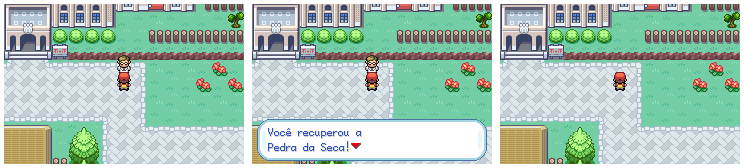
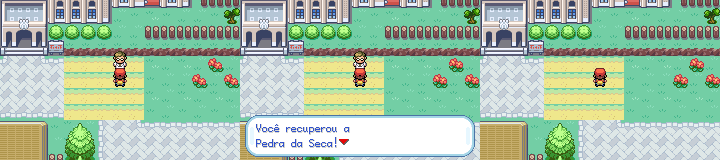
Add dry Caatinga mission clearing

diff --git a/tools/build_caatinga_clearing.py b/tools/build_caatinga_clearing.py
@@ -1,0 +1,44 @@
+"""Install a small dry Caatinga clearing around the third mission.
+
+The campaign still reuses Pewter City's wider layout.  This localized patch
+replaces only the inherited plaza beneath the mission agent and its approach
+with the walkable dry-ground metatile already used by the campaign trail.
+Object positions, the eastbound trigger and the layout attributes stay intact.
+"""
+
+from pathlib import Path
+import struct
+
+
+ROOT = Path(__file__).resolve().parents[1]
+MAP = ROOT / "pokefirered/data/layouts/PewterCity/map.bin"
+WIDTH = 48
+HEIGHT = 40
+
+DRY_GROUND_METATILE = 0x0D4
+CLEARING_CELLS = {
+    (20, 8), (21, 8), (22, 8), (23, 8), (24, 8),
+    (20, 9), (21, 9), (22, 9), (23, 9), (24, 9),
+    (20, 10), (21, 10), (22, 10), (23, 10), (24, 10),
+    (20, 11), (21, 11), (22, 11), (23, 11), (24, 11),
+}
+CAMPAIGN_CELLS = {(23, 8), (23, 9), (24, 9)}
+EXPECTED_OLD = {
+    0x1B9, 0x1BA, 0x1C1, 0x1C2, 0x1C3, 0x1C9, DRY_GROUND_METATILE
+}
+
+
+def main():
+    blocks = list(struct.unpack(f"<{WIDTH * HEIGHT}H", MAP.read_bytes()))
+    assert CAMPAIGN_CELLS <= CLEARING_CELLS
+    for x, y in sorted(CLEARING_CELLS):
+        index = y * WIDTH + x
+        old_metatile = blocks[index] & 0x3FF
+        assert old_metatile in EXPECTED_OLD, (x, y, hex(blocks[index]))
+        blocks[index] = (blocks[index] & 0xFC00) | DRY_GROUND_METATILE
+    MAP.write_bytes(struct.pack(f"<{WIDTH * HEIGHT}H", *blocks))
+    print("Installed 20 dry-ground Caatinga clearing cells; attributes preserved.")
+
+
+if __name__ == "__main__":
+    main()

diff --git a/HANDOFF.md b/HANDOFF.md
@@ -19,7 +19,19 @@ Meta de planejamento até 5 de dezembro de 2026: uma campanha mínima jogável d
 - Dias 16–17: acesso às Terras Raras, confronto e desfecho mínimo.
 - Dias 18–20: percurso integral com os três parceiros, balanceamento essencial, save/Continue e correções bloqueadoras.
 
-Progresso ao fim da rotina 25: os cinco habitats, as cinco pedras, o acesso às Terras Raras, o confronto com Tio Sam e um desfecho com santuário persistente formam uma campanha funcional com os três parceiros. A cadeia integral permanece validada desde jogo novo e por save/Continue após cada etapa. Depois da revelação do santuário, um epílogo liga Vila da Floresta, cinco habitats, pedras e responsabilidade coletiva; o jogo então libera normalmente o controle. O jogador pode permanecer nas Terras Raras ou viajar ao vilarejo pelo santuário; a guia recebe o guardião e oferece retorno opcional ao santuário, sem fechar a travessia normal pelos cinco habitats. Epílogo, circuito bidirecional, recepção, revisita e derrota/revanche final passaram com os três parceiros no mesmo hash atual. Derrota, recuperação, persistência, retorno e nova tentativa também passaram nos cinco agentes posteriores à primeira missão, nos três ramos. Equipes sintéticas de dois membros concluíram a campanha nos três ramos; HP, veneno e PP dos dois membros foram restaurados depois de cada recompensa. Três equipes obtidas naturalmente — Capivágua + Tatupedra, Ararafogo + Tatupedra e Tatupedra + Ararafogo — concluíram a campanha com identidades preservadas. Restam substituir mapas/arte provisórios, ampliar o balanceamento natural e dar acabamento além do quadro final. A meta de 5 de dezembro continua plausível, mas não é garantia de jogo completo.
+Progresso ao fim da rotina 26: os cinco habitats, as cinco pedras, o acesso às Terras Raras, o confronto com Tio Sam e um desfecho com santuário persistente formam uma campanha funcional com os três parceiros. A cadeia integral permanece validada desde jogo novo e por save/Continue após cada etapa. Depois da revelação do santuário, um epílogo liga Vila da Floresta, cinco habitats, pedras e responsabilidade coletiva; o jogo então libera normalmente o controle. O jogador pode permanecer nas Terras Raras ou viajar ao vilarejo pelo santuário; a guia recebe o guardião e oferece retorno opcional ao santuário, sem fechar a travessia normal pelos cinco habitats. Epílogo, circuito bidirecional, recepção, revisita e derrota/revanche final passaram com os três parceiros no hash da rotina 25. Derrota, recuperação, persistência, retorno e nova tentativa também passaram nos cinco agentes posteriores à primeira missão, nos três ramos. Equipes sintéticas de dois membros concluíram a campanha nos três ramos; HP, veneno e PP dos dois membros foram restaurados depois de cada recompensa. Três equipes obtidas naturalmente — Capivágua + Tatupedra, Ararafogo + Tatupedra e Tatupedra + Ararafogo — concluíram a campanha com identidades preservadas. A missão da Caatinga agora tem uma clareira seca própria no lugar do trecho imediato da praça herdada; o percurso até a terceira pedra foi revalidado com Capivágua no hash atual. Restam substituir o cenário herdado ao redor dessa clareira e os demais mapas/arte provisórios, ampliar o balanceamento natural e dar acabamento além do quadro final. A meta de 5 de dezembro continua plausível, mas não é garantia de jogo completo.
+
+## Clareira seca da Caatinga — rotina 26
+
[1 lines of base64/hex data omitted]
+
+Build `firered_rev1` PASS, SHA-1 `cb6ed871bce5257bbfa703a751c91f65a06ac0d5`. Uma cadeia fresca com Capivágua passou pela primeira missão, Pedra das Águas, Campo Cerrado, Pedra das Raízes, entrada da Caatinga, batalha, Pedra da Seca, saída leste, Mata Atlântica, Pedra da Mata, save e Continue. O estado depois da Caatinga contém uma unidade de cada item 361, 362 e 363; a etapa seguinte comprovou também que o novo piso não bloqueia o gatilho de saída. A captura real foi revisada e atualizada em `docs/screenshots/third-habitat/preview.png`; `py_compile`, idempotência do conversor e `git diff --check` passaram.
+
+Limites: a clareira ainda usa um metatile provisório e ocupa só o enquadramento imediato da missão; edifícios, calçamento, flores, música e o restante de Pewter continuam herdados. Somente Capivágua foi repetido porque a mudança é localizada no mapa e não altera lógica de parceiro. Próximo passo funcional: ampliar com segurança a identidade da Caatinga fora do eixo ou criar uma intervenção localizada equivalente na Mata Atlântica, preservando os corredores e gatilhos já validados.
+
+A primeira chamada de `make` foi feita por engano na raiz, onde o alvo não existe. Uma tentativa de recompilação total com `-B` encontrou a dependência de desenvolvimento de libpng ausente e não foi usada como aprovação. Em seguida, `data/layouts/layouts.inc` foi atualizado para recompilar o objeto que incorpora o binário do mapa; a compilação normal no diretório `pokefirered/` ligou a ROM com sucesso antes dos testes.
+
+Janela observada desta execução: 2026-11-25 13:02–13:08 UTC.
 
 ## Epílogo dos cinco habitats — rotina 25
 
